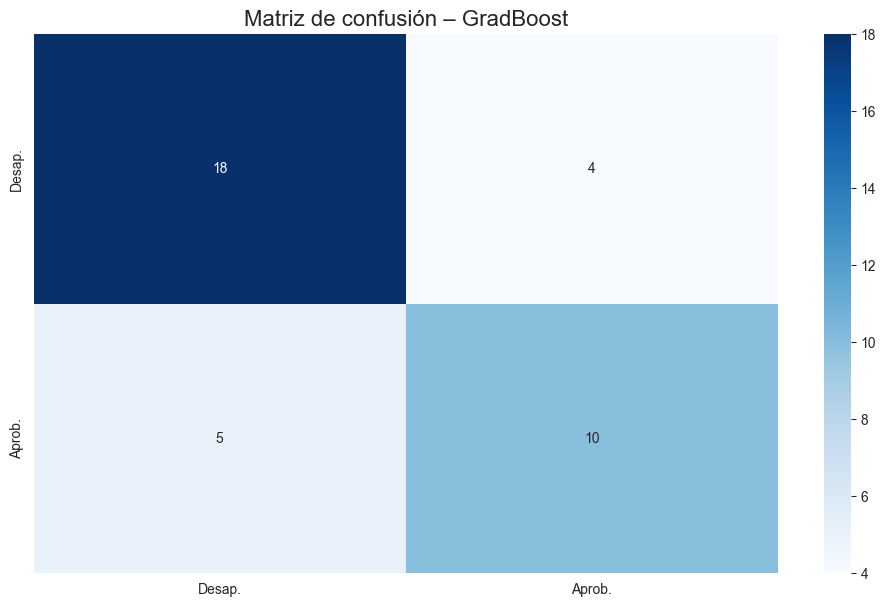
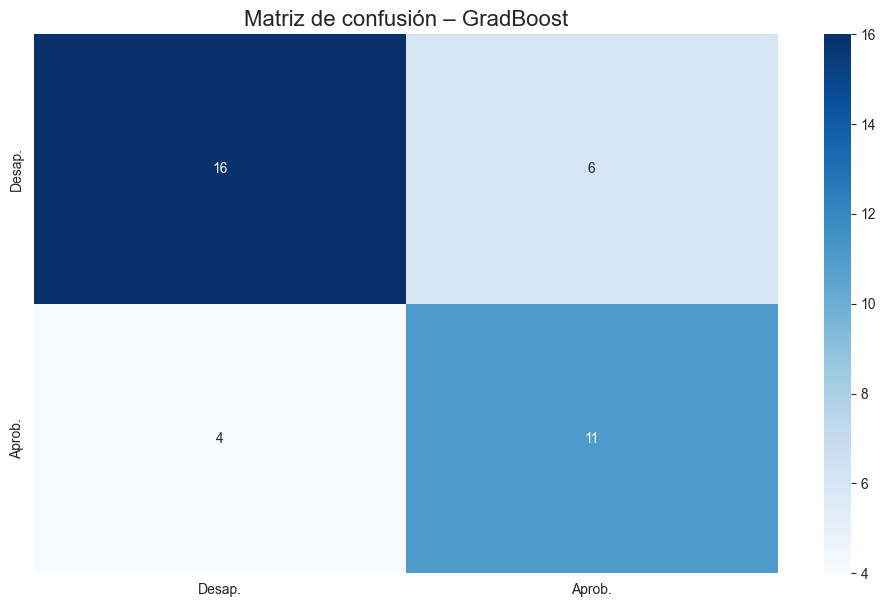
3ra

diff --git a/pipelines/preprocessing.py b/pipelines/preprocessing.py
@@ -4,6 +4,7 @@ import numpy as np
 def load_and_clean_data(filepath, is_training_data=True):
     """
     Carga, limpia y prepara el DataFrame para entrenamiento o predicción.
+    Aplica ingeniería de características para mejorar el rendimiento del modelo.
 
     Parámetros:
     - filepath: Ruta al archivo .xlsx
@@ -27,7 +28,7 @@ def load_and_clean_data(filepath, is_training_data=True):
         cols_to_remove = ['PROMEDIO_CURSO', 'Promedio_Final']
         column_names = [col for col in column_names if col not in cols_to_remove]
 
-    # Cargar Excel (sin encabezado real, por eso se usa skiprows=1)
+    # Cargar Excel
     df = pd.read_excel(
         filepath,
         engine='openpyxl',
@@ -36,7 +37,7 @@ def load_and_clean_data(filepath, is_training_data=True):
         names=column_names
     )
 
-    # Conversión de columnas numéricas
+    # --- Limpieza y Conversión de Tipos ---
     num_cols = ['PORCENTAJE_asistencia', 'CURSOS_MATRICULADOS', 'EDAD']
     if is_training_data:
         num_cols.append('PROMEDIO_CURSO')
@@ -47,17 +48,40 @@ def load_and_clean_data(filepath, is_training_data=True):
 
     df.dropna(subset=num_cols, inplace=True)
 
-    # Crear columnas derivadas de cuotas pagadas
+    # --- Ingeniería de Características ---
+
+    # 1. Crear columnas derivadas de cuotas pagadas
     cuota_cols = ['CUOTA_1', 'CUOTA_2', 'CUOTA_3', 'CUOTA_4', 'CUOTA_5']
     if all(col in df.columns for col in cuota_cols):
         df['CUOTAS_PAGADAS'] = df[cuota_cols].applymap(lambda x: 1 if str(x).strip().upper() == 'COBRADO' else 0).sum(axis=1)
         df['INDICE_PAGO'] = df['CUOTAS_PAGADAS'] / 5
+        df['CUOTAS_PENDIENTES'] = 5 - df['CUOTAS_PAGADAS']
 
-    # Calcular asistencia promedio por curso
+
+    # 2. Calcular asistencia promedio por curso
     if 'PORCENTAJE_asistencia' in df.columns and 'CURSOS_MATRICULADOS' in df.columns:
-        df['ASISTENCIA_POR_CURSO'] = df['PORCENTAJE_asistencia'] / df['CURSOS_MATRICULADOS']
+        # Evitar división por cero
+        df['ASISTENCIA_POR_CURSO'] = df['PORCENTAJE_asistencia'] / df['CURSOS_MATRICULADOS'].replace(0, 1)
 
-    # Crear variable objetivo si es entrenamiento
+    # 3. Crear características de interacción
+    if "EDAD" in df.columns and "PORCENTAJE_asistencia" in df.columns:
+        df["EDAD_X_ASISTENCIA"] = df["EDAD"] * df["PORCENTAJE_asistencia"]
+
+    if "CURSOS_MATRICULADOS" in df.columns and "INDICE_PAGO" in df.columns:
+         df["CURSOS_X_INDICE_PAGO"] = df["CURSOS_MATRICULADOS"] * df["INDICE_PAGO"]
+
+    # 4. Agrupar categorías raras para mejorar el aprendizaje
+    if is_training_data:
+        cat_cols_to_process = ['PROCEDENCIA', 'DESCRIPCION']
+        for col in cat_cols_to_process:
+            if col in df.columns:
+                value_counts = df[col].value_counts(normalize=True)
+                rare_categories = value_counts[value_counts < 0.01].index
+                if len(rare_categories) > 0:
+                    df[col] = df[col].replace(rare_categories, 'Otros')
+
+    # --- Variable Objetivo ---
+    # Crear variable objetivo solo si es data de entrenamiento
     if is_training_data:
         df['ESTADO_APROBACION_NUM'] = np.where(df['PROMEDIO_CURSO'] >= 13, 1, 0)
 

diff --git a/pipelines/training_pipeline.py b/pipelines/training_pipeline.py
@@ -164,28 +164,21 @@ def run_training(file_path: str):
         ax.set_title("Matriz de correlación (variables numéricas)")
         _save(f, "eda_heatmap_corr")
 
-    # Archivo: pipelines/training_pipeline.py
-
-    # ─── FASE 2 · Preparación de datos ───────────────────────────────
-    drop_cols = [
+        # ─── FASE 2 · Preparación de datos ───────────────────────────────
+        drop_cols = [
         "Periodo","CÓDIGO","ALUMNO","DEPART","DISTRITO","NACIM","PERIODO_INGRESO",
         "CARRERA_PLAN","FECHA_MATRICULA","CURSO_CODIGO","CURSO_NOMBRE","DESCRIPCION_1",
         "PROMEDIO_CURSO","TIPOSESION","SECCIÓN","DOCENTE","PERIODO_ACADEMICO","PERIODOMES",
         "ASISTENCIAS","CLASES","Promedio_Final","CUOTA_1","CUOTA_2","CUOTA_3","CUOTA_4","CUOTA_5",
         "ESTADO_APROBACION","DESCRIPCION"
-    ]
+        ]
+        # Separamos la variable objetivo 'y' y la eliminamos explícitamente de las características 'X'
+        y = df["ESTADO_APROBACION_NUM"]
+        X = df.drop(columns=["ESTADO_APROBACION_NUM"] + drop_cols, errors="ignore") # <-- ¡AQUÍ ESTÁ LA MAGIA!
 
-    # ↓↓↓ ASEGÚRATE DE QUE ESTA PARTE ESTÉ ASÍ ↓↓↓
-    # 1. Se define 'y' con la columna objetivo.
-    y = df["ESTADO_APROBACION_NUM"]
-
-    # 2. Se eliminan del DataFrame 'X' TANTO las columnas de 'drop_cols' COMO la columna objetivo.
-    X = df.drop(columns=["ESTADO_APROBACION_NUM"] + drop_cols, errors="ignore")
-    # ↑↑↑ ESTA LÍNEA ES LA MÁS IMPORTANTE ↑↑↑
-
-    num_cols = X.select_dtypes(include="number").columns.tolist()
-    cat_cols = X.select_dtypes(exclude="number").columns.tolist()
-    X[cat_cols] = X[cat_cols].astype(str)
+        num_cols = X.select_dtypes(include="number").columns.tolist()
+        cat_cols = X.select_dtypes(exclude="number").columns.tolist()
+        X[cat_cols] = X[cat_cols].astype(str)
 
     pre = ColumnTransformer([
         ("num", Pipeline([("imp", SimpleImputer(strategy="median")),
